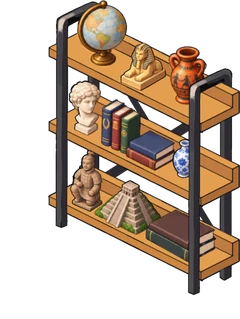
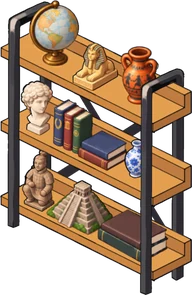
箱庭：お土産のラックを3×1マスに
Claude-Session: https://claude.ai/code/session_01Fotd3SWRhTFWFVYba7542s

diff --git a/index.html b/index.html
@@ -3379,7 +3379,7 @@ textarea,input[type=text]{width:100%;font-size:18px;padding:12px;border:1px soli
   {"k":"B1","n":"司書室のキッチン","e":-1,"t":"floor","g":"家具","w":4,"d":2,"h":46,"c":"#c07a45","p":0,"x":"図書館の奥にある、司書のための台所。焼きたてのクッキーは自由につまんでいいが、本の上で食べるのは禁止されている。"},
   {"k":"B2","n":"お茶のテーブル","e":-1,"t":"floor","g":"家具","w":3,"d":2,"h":26,"c":"#c08a55","p":0,"x":"休憩用のテーブル。読みながらお茶を飲むなら、カップは本から離して置くこと。紅茶のしみは、誤植よりしつこい。"},
   {"k":"B3","n":"ソファ","e":-1,"t":"floor","g":"家具","w":3,"d":2,"h":27,"c":"#b98c7c","p":0,"x":"閉館後、ここで寝ている司書がいるらしい。本人は否定している。"},
-  {"k":"B4","n":"お土産のラック","e":-1,"t":"floor","g":"本棚","w":3,"d":2,"h":100,"c":"#c9893f","p":0,"x":"司書が仕事先から持ち帰ったお土産を並べるラック。地球儀にスフィンクス、ギリシアの壺、兵馬俑、マヤのピラミッド。時代も場所もばらばらなのは、司書の仕事先が歴史の中だからだ。"},
+  {"k":"B4","n":"お土産のラック","e":-1,"t":"floor","g":"本棚","w":3,"d":1,"h":100,"c":"#c9893f","p":0,"x":"司書が仕事先から持ち帰ったお土産を並べるラック。地球儀にスフィンクス、ギリシアの壺、兵馬俑、マヤのピラミッド。時代も場所もばらばらなのは、司書の仕事先が歴史の中だからだ。"},
   {"k":"A1","n":"粘土板の書棚","e":0,"t":"floor","g":"本棚","w":2,"d":2,"h":80,"c":"#b08d5b","p":5,"x":"メソポタミアでは、粘土板に葦のペンを押しつけて楔形文字を書いた。アッシュルバニパル王の図書館は焼け落ちたが、そのおかげで粘土板が焼き固められ、今まで残った。"},
   {"k":"A2","n":"パピルスの巻物棚","e":0,"t":"floor","g":"本棚","w":2,"d":2,"h":73,"c":"#c9b27a","p":5,"x":"パピルスは、ナイルの岸に生える草の茎を薄く裂き、縦と横に重ねて作る。英語のpaperの語源である。"},
   {"k":"A3","n":"ロゼッタ＝ストーン（複製）","e":0,"t":"floor","g":"置物","w":2,"d":2,"h":67,"c":"#5d5b60","p":10,"x":"同じ内容が、神聖文字・民用文字・ギリシア文字の3つで刻まれている。シャンポリオンはギリシア語の部分を手がかりに、神聖文字を解読した。本物は大英博物館にある。"},
